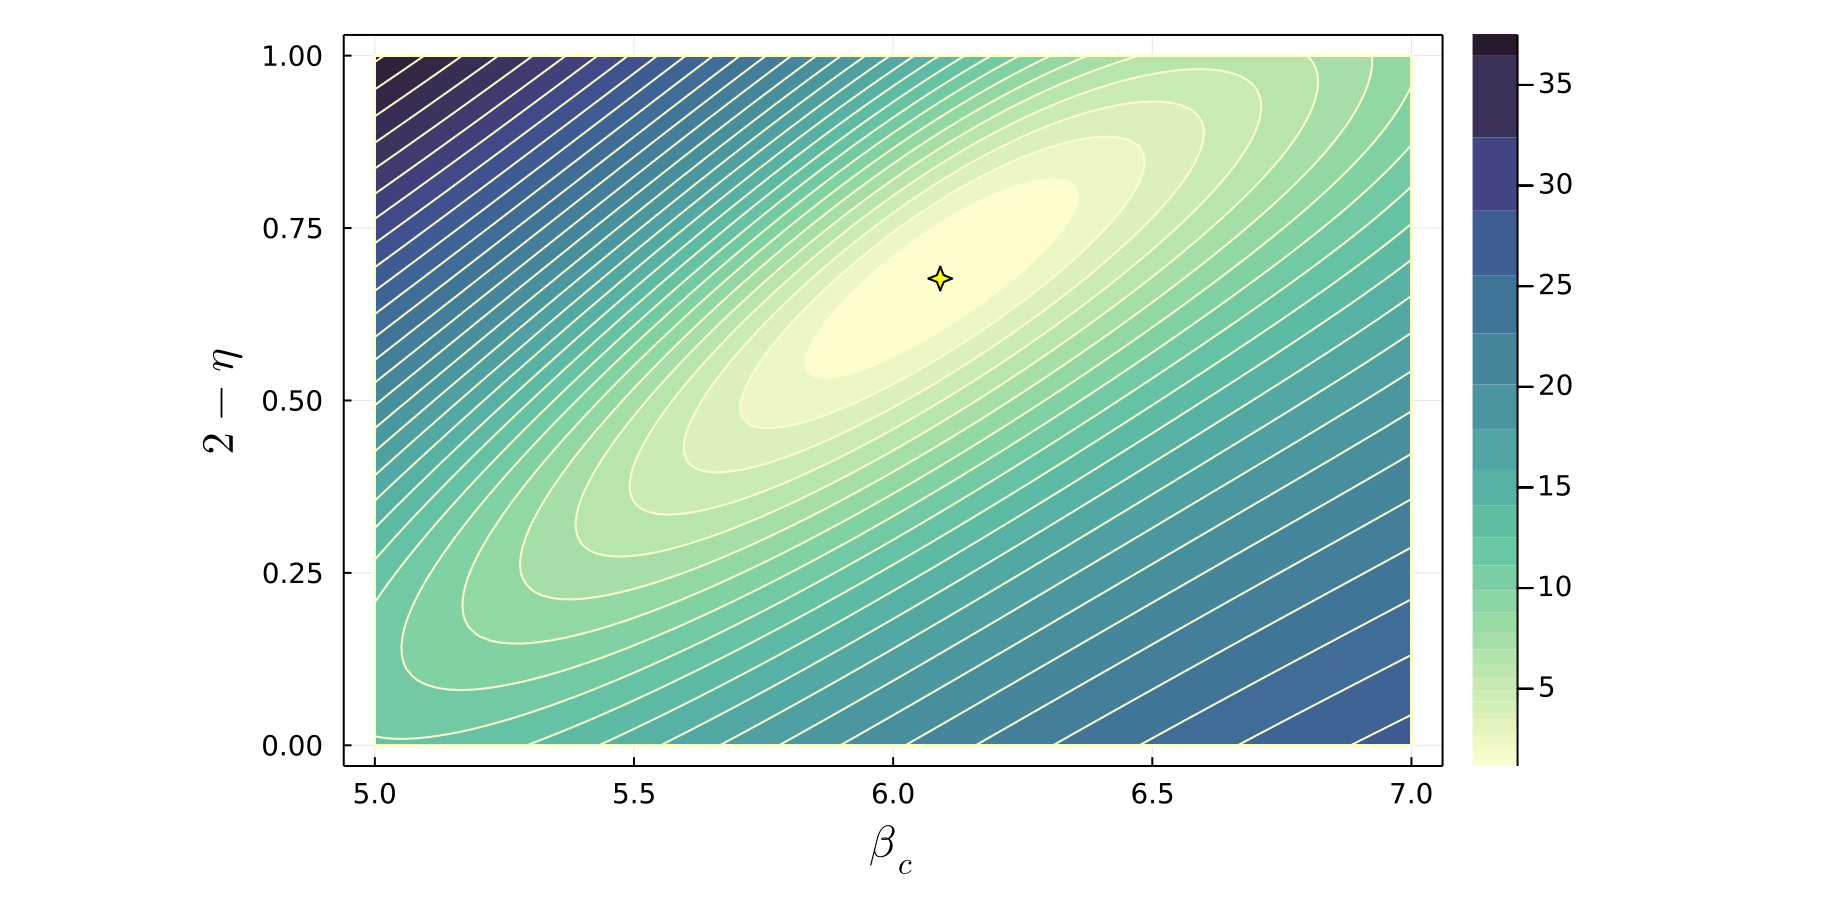
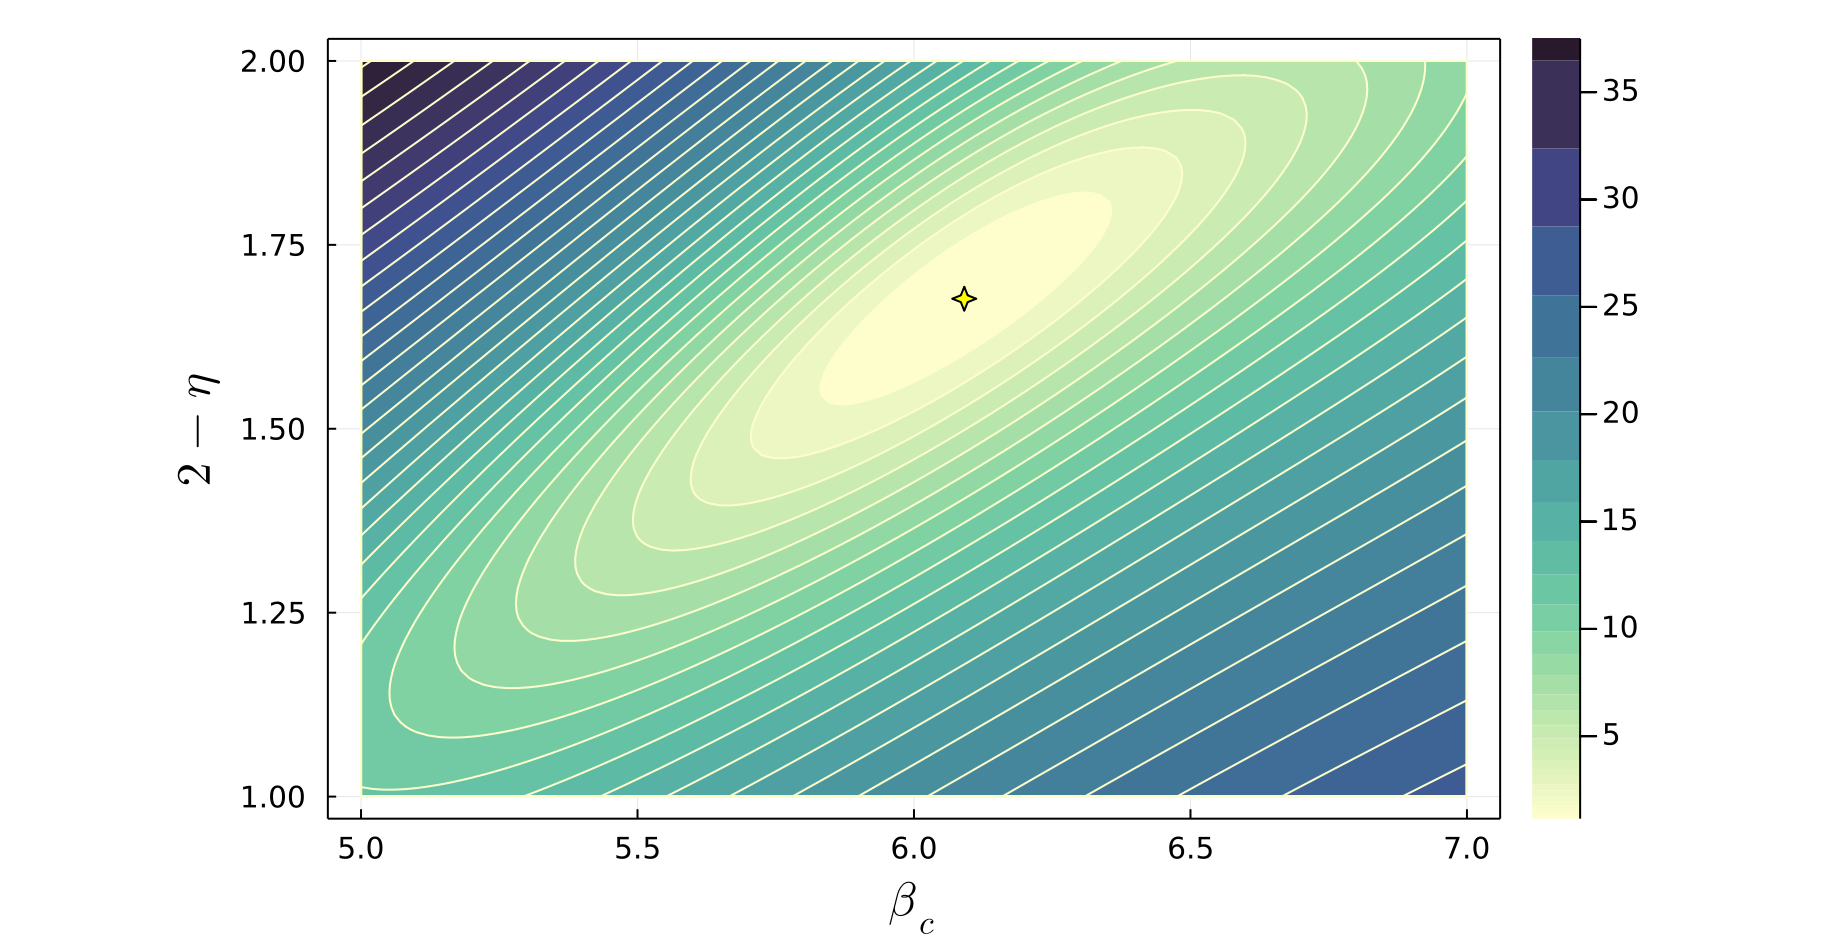
Updated contour plot in Demo 2

diff --git a/docs/src/demo_2.md b/docs/src/demo_2.md
@@ -64,7 +64,7 @@ julia> plot_data(scaled_data)
 When performing two-parameter scaling, it is often useful to produce a contour plot showing how the quality of the data collapse varies in the ``(v_1, v_2)`` plane. To make this plot, use the function [`plot_contour`](@ref), passing in the two-dimensional array `residuals` returned by [`fss_two_var`](@ref). You will need to pass in the same values of `v1i`, `v1f`, `n1`, `v2i`, `v2f`, and `n2` which were used in [`fss_two_var`](@ref). You will also need to specify how many contour lines are drawn using the argument `levels`. `levels` can either be an integer or an array of values. If an array of values is specified, only contour lines at these specific values will be drawn on the plot. If `levels` is an integer, this sets the total number of contour lines which will be drawn. The values represented by the contour lines can either be equally spaced or logarithmically spaced, which is set by the boolean argument `logspace`. Often logarthmic spacing is best in order to get a reasonable number of contour lines plotted near the minima, and `logspace=true` by default. A solid color fill between contour lines will be drawn if the boolean argument `fill=true`, which it is by default. 
 
 ```@julia
-julia> plot_contour(residuals, v1i=5.0, v1f=7.0, n1=100, v2i=0.0, v2f=1.0, n2=100, levels=30, fill=true, logspace=true, xlabel=L"\beta_c", ylabel=L"2 - \eta") 
+julia> plot_contour(residuals, v1i=5.0, v1f=7.0, n1=100, v2i=1.0, v2f=2.0, n2=100, levels=30, fill=true, logspace=true, xlabel=L"\beta_c", ylabel=L"2 - \eta") 
 ```
 
 The [`plot_contour`](@ref) function produces a contour plot displaying the sum of squared residuals in the ``(v_1, v_2)`` plane, where a smaller value corresponds to a better quality data collapse. The minimum residual value is also indicated by a marker on the plot, showing the location of `(best_v1, best_v2)`:
